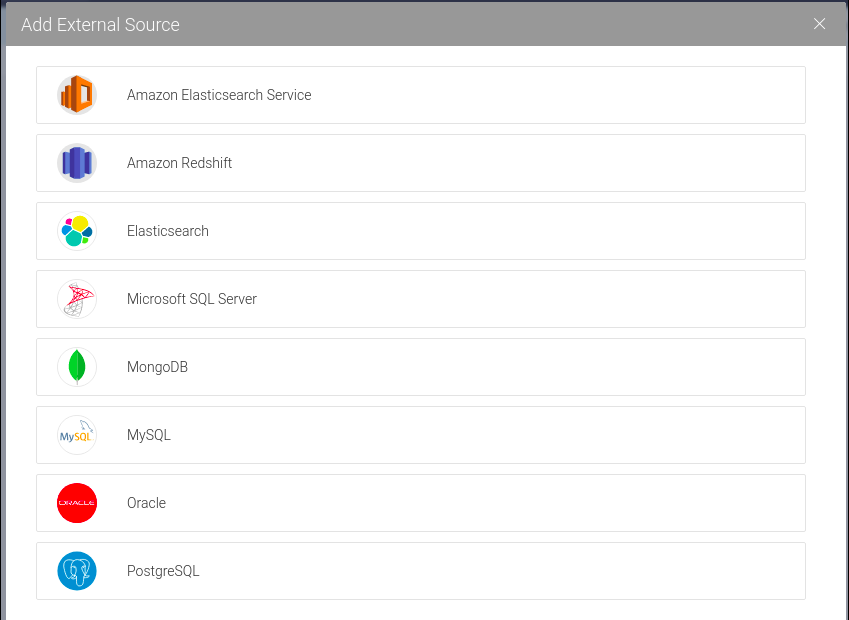
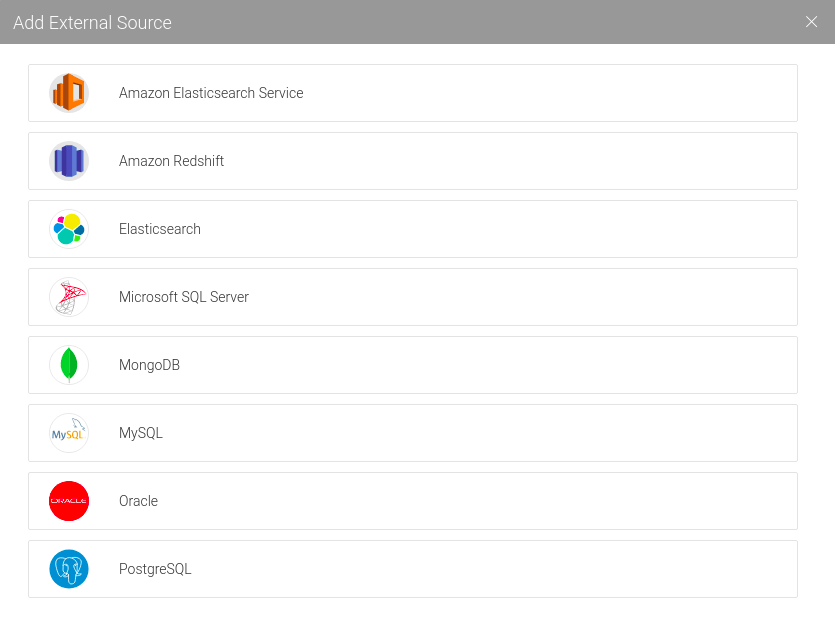
Dremio: minor image cropping and resizing.

diff --git a/tutorial/federation/dremio/README.md b/tutorial/federation/dremio/README.md
@@ -32,11 +32,11 @@ We are ready to add our database as a new datasource into Dremio:
 
 Select PostgreSQL:
 
-<img src="img/add-postgres-external.png" width="600"/>
+<img src="img/add-postgres-external.png" width="700"/>
 
 Enter the required JDBC information (password: *postgres*):
 
-<img src="img/postgres-info.png" width="600"/>
+<img src="img/postgres-info.png" width="700"/>
 
 Now we see the tables in *university-session1*:
 
@@ -55,7 +55,7 @@ Now we add the *uni2* data from [here](data/uni2.json) as a JSON data source:
 
 The *uni2* JSON data can be seen as follows:
 
-<img src="img/see-json.png" width="600"/>
+<img src="img/see-json.png" width="800"/>
 
 JSON files usually contain nested data. However, Ontop cannot directly query nested data. For this reason, in order to make our JSON data queryable by Ontop, first we need to extract relevant group of elements, and save these groups as datasets. 
 
@@ -77,7 +77,7 @@ flatten(enrollers) AS enrollers
 
 *Save As* the data set with the name *uni2-registration*.
 
-<img src="img/uni2-registration.png" width="600"/>
+<img src="img/uni2-registration.png" width="800"/>
 
 Create a dataset named *uni2-course* in a similar manner:
 
